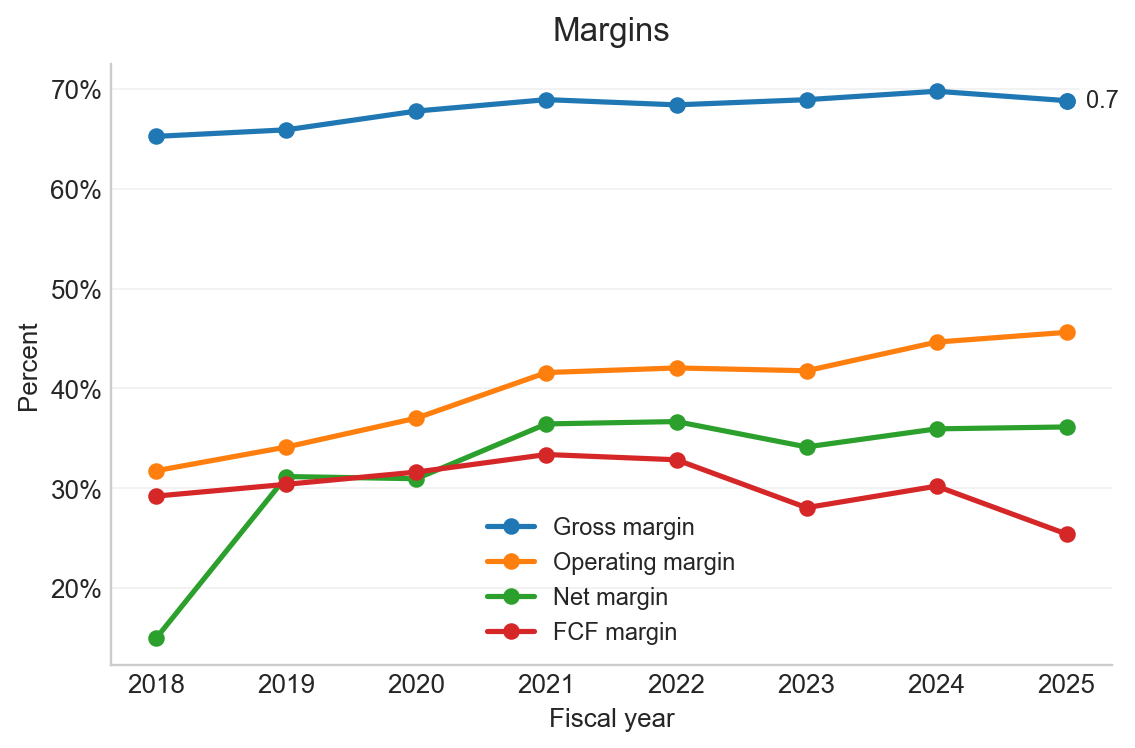
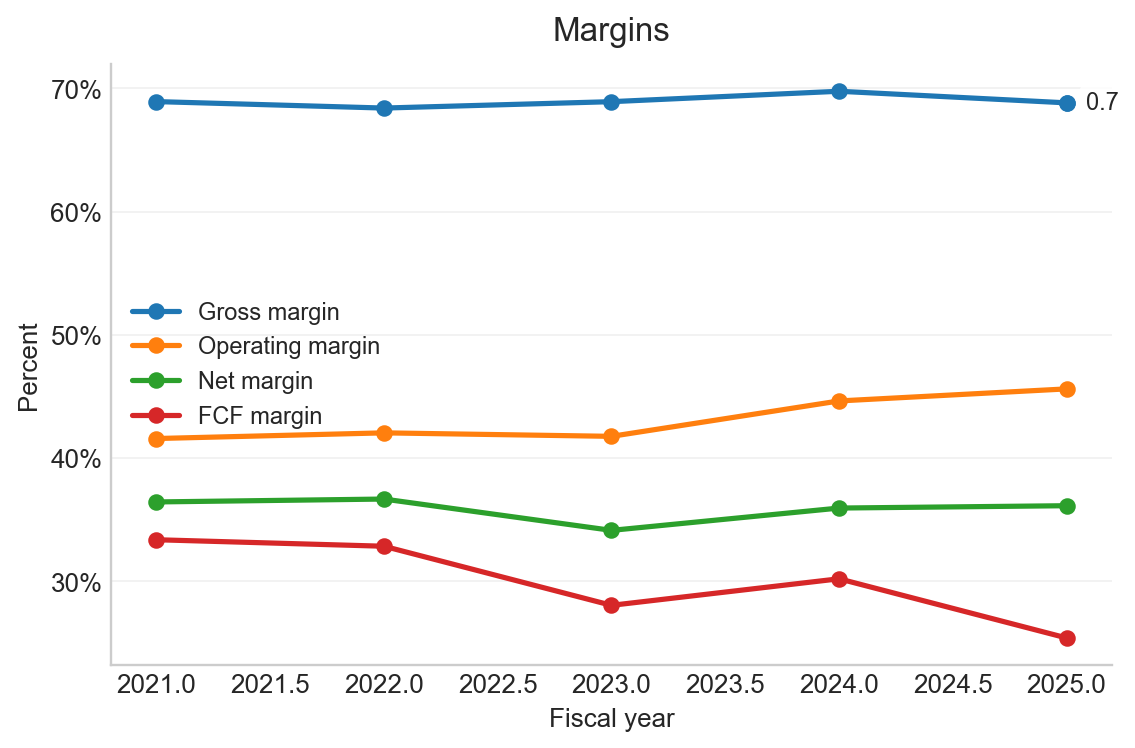
ms

diff --git a/output_reports/MSFT.md b/output_reports/MSFT.md
@@ -1,8 +1,8 @@
 # MICROSOFT CORP - MSFT Automated Financial Analysis Report
 
 - CIK: `0000789019`
-- Generated: 2026-02-12 14:19:12
-- Coverage: last 10 fiscal years
+- Generated: 2026-02-12 14:20:55
+- Coverage: last 5 fiscal years
 
 ## Highlights
 - Latest fiscal year: **FY2025** ended 2025-06-30.
@@ -24,20 +24,13 @@
 
 ## Annual Financials Table
 USD in billions for level metrics
-|   fy | fiscal_year_end   | revenue   | gross_profit   | operating_income   | net_income   | cfo   | capex   | fcf   | revenue_yoy   | gross_margin   | operating_margin   | net_margin   | fcf_margin   | cash   | equity   |
-|-----:|:------------------|:----------|:---------------|:-------------------|:-------------|:------|:--------|:------|:--------------|:---------------|:-------------------|:-------------|:-------------|:-------|:---------|
-| 2025 | 2025-06-30        | 281.7     | 193.9          | 128.5              | 101.8        | 136.2 | 64.6    | 71.6  | 14.9%         | 68.8%          | 45.6%              | 36.1%        | 25.4%        | 30.2   | 343.5    |
-| 2024 | 2024-06-30        | 245.1     | 171.0          | 109.4              | 88.1         | 118.5 | 44.5    | 74.1  | 15.7%         | 69.8%          | 44.6%              | 36.0%        | 30.2%        | 18.3   | 268.5    |
-| 2023 | 2023-06-30        | 211.9     | 146.1          | 88.5               | 72.4         | 87.6  | 28.1    | 59.5  | 6.9%          | 68.9%          | 41.8%              | 34.1%        | 28.1%        | 34.7   | 206.2    |
-| 2022 | 2022-06-30        | 198.3     | 135.6          | 83.4               | 72.7         | 89.0  | 23.9    | 65.1  | 18.0%         | 68.4%          | 42.1%              | 36.7%        | 32.9%        | 13.9   | 166.5    |
-| 2021 | 2021-06-30        | 168.1     | 115.9          | 69.9               | 61.3         | 76.7  | 20.6    | 56.1  | 17.5%         | 68.9%          | 41.6%              | 36.5%        | 33.4%        | 14.2   | 142.0    |
-| 2020 | 2020-06-30        | 143.0     | 96.9           | 53.0               | 44.3         | 60.7  | 15.4    | 45.2  | 13.6%         | 67.8%          | 37.0%              | 31.0%        | 31.6%        | 13.6   | 118.3    |
-| 2019 | 2019-06-30        | 125.8     | 82.9           | 43.0               | 39.2         | 52.2  | 13.9    | 38.3  | 14.0%         | 65.9%          | 34.1%              | 31.2%        | 30.4%        | 11.4   | 102.3    |
-| 2018 | 2018-06-30        | 110.4     | 72.0           | 35.1               | 16.6         | 43.9  | 11.6    | 32.3  | NA            | 65.2%          | 31.8%              | 15.0%        | 29.2%        | 11.9   | 82.7     |
-| 2017 | 2017-06-30        | NA        | 55.7           | 22.3               | 21.2         | NA    | 8.1     | NA    | NA            | NA             | NA                 | NA           | NA           | 7.7    | 72.4     |
-| 2016 | 2016-06-30        | NA        | 52.5           | 20.2               | 16.8         | NA    | 8.3     | NA    | NA            | NA             | NA                 | NA           | NA           | 6.5    | 72.0     |
-| 2013 | 2013-06-30        | NA        | NA             | NA                 | NA           | 28.8  | NA      | NA    | NA            | NA             | NA                 | NA           | NA           | NA     | NA       |
-| 2012 | 2012-06-30        | NA        | NA             | NA                 | NA           | 31.6  | NA      | NA    | NA            | NA             | NA                 | NA           | NA           | NA     | NA       |
+|   fy | fiscal_year_end   |   revenue |   gross_profit |   operating_income |   net_income |   cfo |   capex |   fcf | revenue_yoy   | gross_margin   | operating_margin   | net_margin   | fcf_margin   |   cash |   equity |
+|-----:|:------------------|----------:|---------------:|-------------------:|-------------:|------:|--------:|------:|:--------------|:---------------|:-------------------|:-------------|:-------------|-------:|---------:|
+| 2025 | 2025-06-30        |     281.7 |          193.9 |              128.5 |        101.8 | 136.2 |    64.6 |  71.6 | 14.9%         | 68.8%          | 45.6%              | 36.1%        | 25.4%        |   30.2 |    343.5 |
+| 2024 | 2024-06-30        |     245.1 |          171   |              109.4 |         88.1 | 118.5 |    44.5 |  74.1 | 15.7%         | 69.8%          | 44.6%              | 36.0%        | 30.2%        |   18.3 |    268.5 |
+| 2023 | 2023-06-30        |     211.9 |          146.1 |               88.5 |         72.4 |  87.6 |    28.1 |  59.5 | 6.9%          | 68.9%          | 41.8%              | 34.1%        | 28.1%        |   34.7 |    206.2 |
+| 2022 | 2022-06-30        |     198.3 |          135.6 |               83.4 |         72.7 |  89   |    23.9 |  65.1 | 18.0%         | 68.4%          | 42.1%              | 36.7%        | 32.9%        |   13.9 |    166.5 |
+| 2021 | 2021-06-30        |     168.1 |          115.9 |               69.9 |         61.3 |  76.7 |    20.6 |  56.1 | NA            | 68.9%          | 41.6%              | 36.5%        | 33.4%        |   14.2 |    142   |
 
 ## XBRL Concept Map
 

diff --git a/output_reports/index.md b/output_reports/index.md
@@ -1,7 +1,7 @@
 # Automated Financial Analysis Reports
 
-- Generated: 2026-02-12 14:19:12
-- Coverage: last 10 fiscal years
+- Generated: 2026-02-12 14:20:55
+- Coverage: last 5 fiscal years
 
 ## Reports
 
